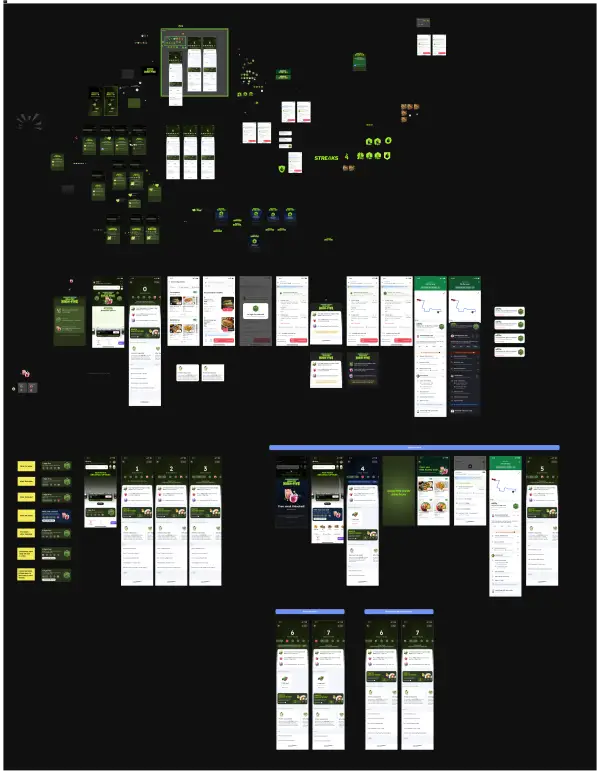
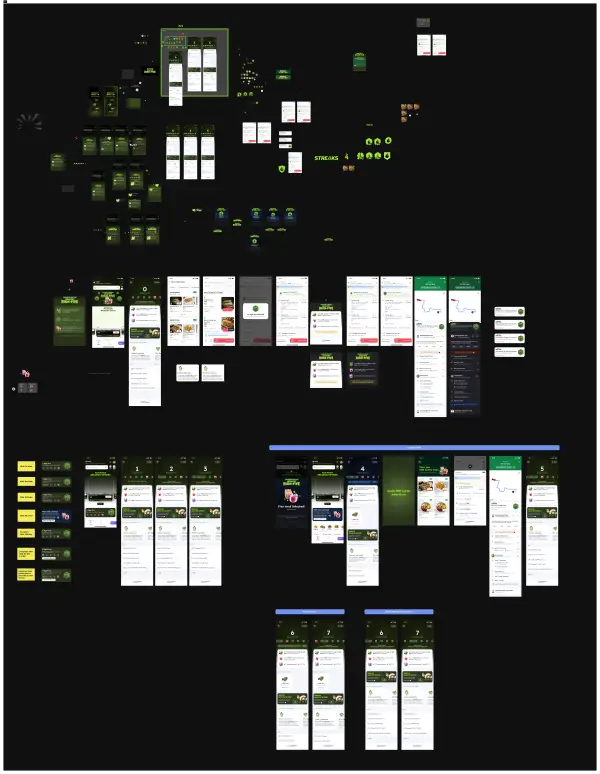
perf(flow): render boards at native SVG resolution + cap zoom at 1:1
Previous renders were below native and got upsampled past ~3× fit
zoom, which is why text on the boards looked soft once you leaned
in. Two fixes:

- Re-render both boards at the original SVG canvas size. Healthy
  High-Five jumps from 5950→7018 wide; Sidetake from 5500→12591
  wide. WebP sizes land at 1.6MB and 2.8MB — still gated behind the
  "See the flow" CTA and the 16–25KB poster handles first paint, so
  the perf budget for the rest of the site is untouched.
- Cap MAX_ZOOM at 1.0 (one source pixel == one display pixel). With
  the boards now this dense that leaves ~5× zoom on H5 and ~9× zoom
  on Sidetake before the cap kicks in — plenty to read any screen
  on the board, and the user never sees an upscale.

Changed region(s): [[0.0, 0.9922, 0.99, 1.0]]

diff --git a/app/data/projects.ts b/app/data/projects.ts
@@ -128,10 +128,10 @@ export const projects: Project[] = [
       },
     ],
     process: {
-      src: "/projects/sidetake-process.webp?v=3",
-      poster: "/projects/sidetake-process-poster.webp?v=3",
-      width: 5500,
-      height: 7001,
+      src: "/projects/sidetake-process.webp?v=4",
+      poster: "/projects/sidetake-process-poster.webp?v=4",
+      width: 12591,
+      height: 16026,
       bg: "#101010",
       label: "The flow",
       blurb:
@@ -311,10 +311,10 @@ export const projects: Project[] = [
       "Healthy High-Five was a full-funnel in-app reward built to push adoption of Zomato's Healthy Mode — order four healthy meals, the fifth is free. The challenge wasn't visuals, it was clarity: users needed to get the mechanic in seconds, see where they stand, and feel nudged not nagged. I owned the end-to-end visual system — naming and identity, a badge language that literally shows the \u201Chi-fi / high-five\u201D idea in the collectible itself, a green-forward palette, and a 3D icon set (Blender + Substance Painter) so progress feels tactile rather than ticked. Animated in After Effects, shipped as Lottie. You're not told to order healthy — you're shown your path to the win.",
     ],
     process: {
-      src: "/projects/h5-process.webp?v=4",
-      poster: "/projects/h5-process-poster.webp?v=4",
-      width: 5950,
-      height: 7672,
+      src: "/projects/h5-process.webp?v=5",
+      poster: "/projects/h5-process-poster.webp?v=5",
+      width: 7018,
+      height: 9049,
       bg: "#101010",
       label: "The flow",
       blurb:

diff --git a/app/components/ProjectProcessOverlay.tsx b/app/components/ProjectProcessOverlay.tsx
@@ -9,8 +9,12 @@ type Props = {
   onClose: () => void;
 };
 
-const MIN_ZOOM = 0.4;
-const MAX_ZOOM = 3;
+const MIN_ZOOM = 0.05;
+// Cap absolute zoom at 1× source pixel — beyond that we're upsampling
+// and the board goes soft. With a board rendered close to native SVG
+// resolution this still gives the user 5–10× zoom relative to fit,
+// which is plenty for reading any screen on the board.
+const MAX_ZOOM = 1;
 const WHEEL_SENSITIVITY = 0.0018;
 
 // Full-bleed canvas viewer for a project's design board / flow image.
